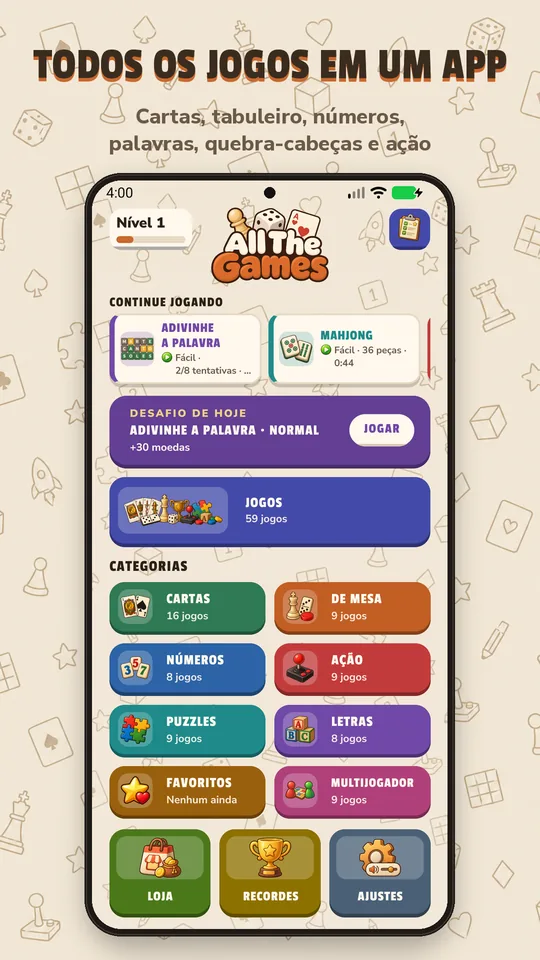
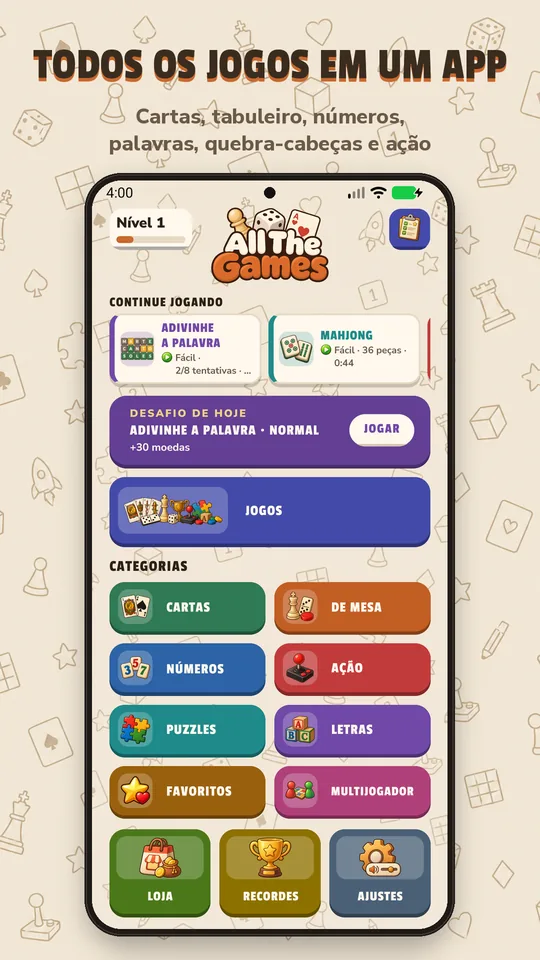
AllTheGames: privacidad italiana con titular "privato" y capturas 01 y 08 rehechas sin recuentos (copiadas de la app)
Claude-Session: https://claude.ai/code/session_0168rJWdsvL8esDhwg6Dt2vE

diff --git a/docs/apps/allthegames/privacidad/it/index.html b/docs/apps/allthegames/privacidad/it/index.html
@@ -64,7 +64,7 @@
   <h2>Cosa non facciamo</h2>
   <p>Non vendiamo dati, non creiamo profili pubblicitari e non accediamo al GPS né chiediamo una posizione precisa. Non ci sono scatole a sorpresa di acquisti. Non c’è chat tra giocatori.</p>
   <h2>Chi risponde</h2>
-  <p>Il titolare di AllTheGames e di questi dati è Brais López Arias (persona fisica). Per una domanda di privacy scrivi a <a href="mailto:bryce.lz.as@gmail.com">bryce.lz.as@gmail.com</a>. Se un annuncio o un addebito non sta bene per un bambino, diccelo e lo controlliamo.</p>
+  <p>Il titolare di AllTheGames e di questi dati è Brais López Arias (privato). Per una domanda di privacy scrivi a <a href="mailto:bryce.lz.as@gmail.com">bryce.lz.as@gmail.com</a>. Se un annuncio o un addebito non sta bene per un bambino, diccelo e lo controlliamo.</p>
   <h2>Altri siti</h2>
   <p>I giochi di parole (Indovina la parola, Forma parole e Parole in catena) controllano online le parole che non sono incluse nell’app: in spagnolo inviano la parola a <a href="https://rae-api.com">rae-api.com</a>, che usa l’indirizzo IP per limitare gli abusi; nelle altre lingue la inviano a Wiktionary (Wikimedia Foundation), che riceve l’indirizzo IP. Le bandiere sono caricate da <a href="https://flagcdn.com">flagcdn.com</a>, il cui server riceve l’indirizzo IP e il codice dell’immagine richiesta. Per sapere se c’è connessione, l’app invia di tanto in tanto una richiesta vuota a Google (connectivitycheck.gstatic.com), che riceve l’indirizzo IP. Sono richieste tecniche tramite HTTPS. Google gestisce annunci e acquisti; non inviamo a questi servizi il nome del profilo locale, il PIN né la tua email. Se l’app si blocca, invia a Sentry (server nell’UE) un rapporto tecnico dell’errore: cosa non ha funzionato, la versione dell’app e il modello e sistema del telefono, senza IP, nome del profilo né altri dati personali.</p>
   <h2>Perché e per quanto tempo</h2>
